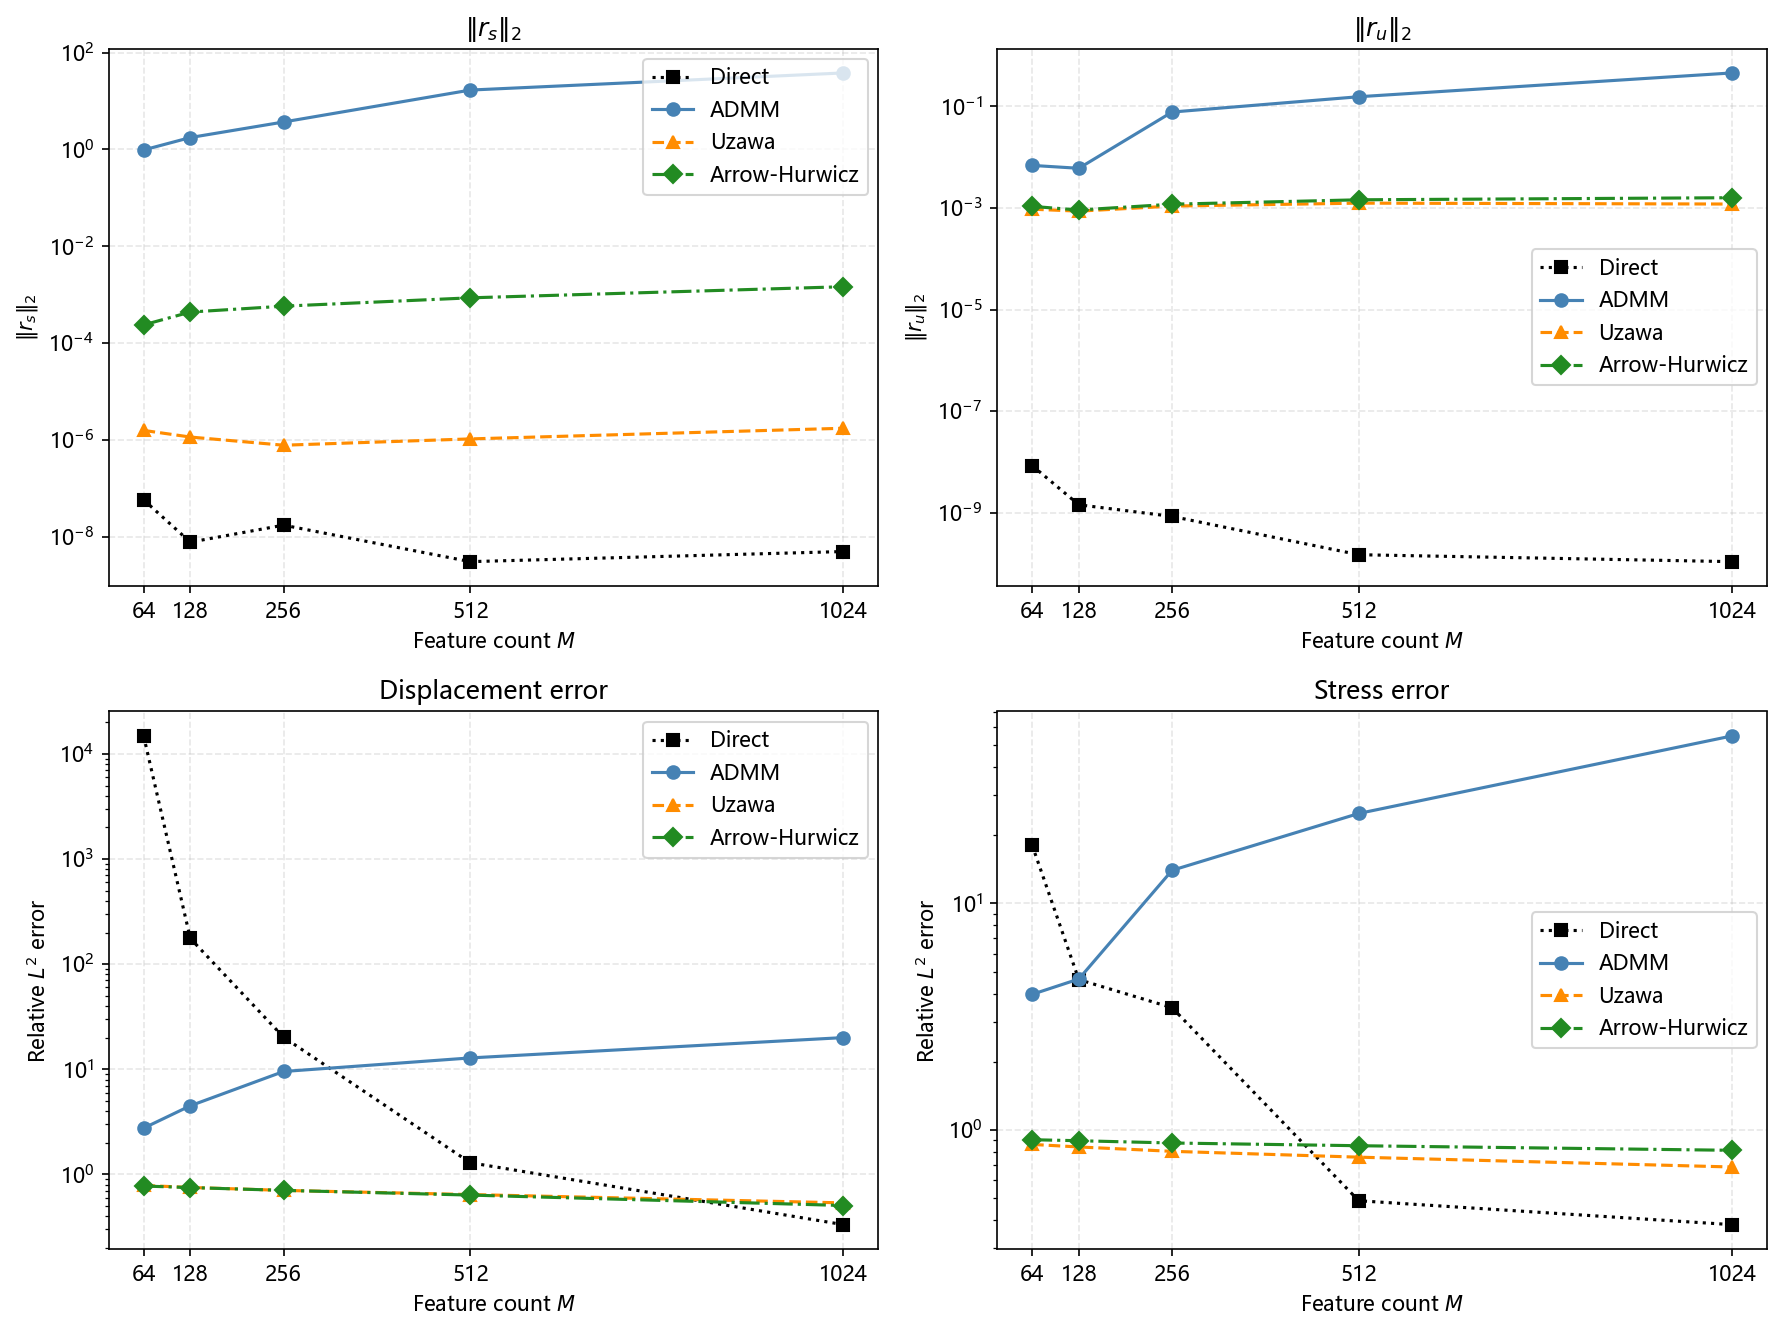
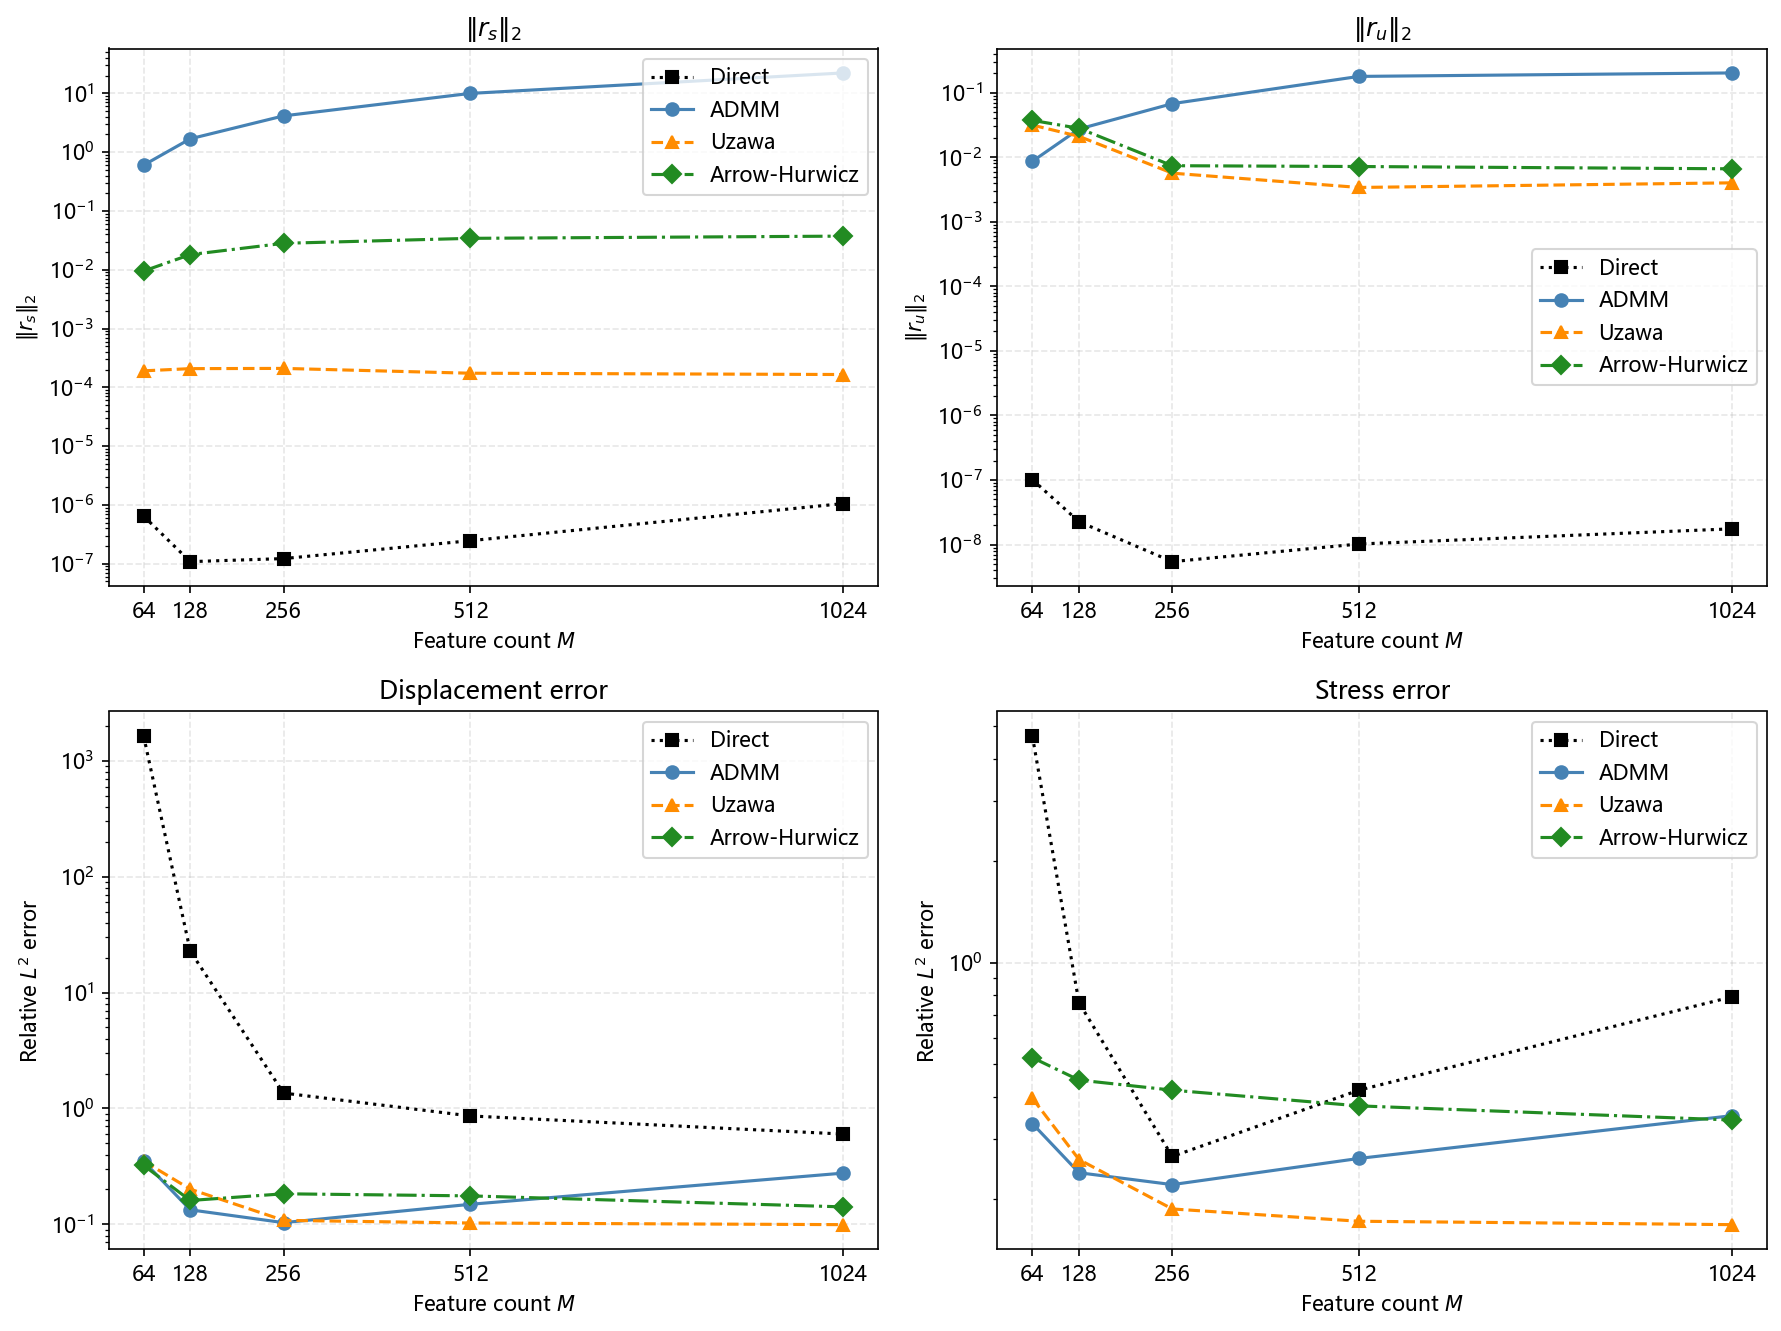
docs: add the envelope function zeta to the numerical displacement for boundary conditions

diff --git a/experiments/saddle-point/saddle_point.py b/experiments/saddle-point/saddle_point.py
@@ -193,7 +193,7 @@ def assemble_system(xi: torch.Tensor, grad_xi: torch.Tensor,
     """Assemble A, B, F matrices for the saddle-point system.
 
     Displacement features are multiplied by ζ(x) to enforce homogeneous
-    Dirichlet BCs: ψ_m(x) = ζ(x) ξ_m(x), so u_h = Σ u_{m,i} ψ_m e_i = 0 on ∂Ω.
+    Dirichlet BCs: ξ̂_m(x) = ζ(x) ξ_m(x), so u_h = Σ u_{m,i} ξ̂_m e_i = 0 on ∂Ω.
 
     Args:
         xi: (Q, M+1) feature values
@@ -210,8 +210,8 @@ def assemble_system(xi: torch.Tensor, grad_xi: torch.Tensor,
     Q = xi.shape[0]
     Mp1 = xi.shape[1]
 
-    # Displacement features: ψ = ζ * ξ
-    psi = zeta.unsqueeze(1) * xi  # (Q, Mp1)
+    # Displacement features: ξ̂ = ζ * ξ
+    xi_hat = zeta.unsqueeze(1) * xi  # (Q, Mp1)
 
     # Gram matrix G = (1/Q) xi^T xi (stress-stress)
     G = (1.0 / Q) * (xi.T @ xi)
@@ -223,11 +223,11 @@ def assemble_system(xi: torch.Tensor, grad_xi: torch.Tensor,
         for beta in range(6):
             A[alpha::6, beta::6] = S[alpha, beta] * G
 
-    # Derivative matrices using displacement features ψ for test:
-    # D_k[n, m] = (1/Q) sum_q ψ_m(x_q) * d_k ξ_n(x_q)
+    # Derivative matrices using displacement features ξ̂ for test:
+    # D_k[n, m] = (1/Q) sum_q ξ̂_m(x_q) * d_k ξ_n(x_q)
     D = []
     for k in range(3):
-        Dk = (1.0 / Q) * (psi.T @ grad_xi[:, :, k])  # [m, n]
+        Dk = (1.0 / Q) * (xi_hat.T @ grad_xi[:, :, k])  # [m, n]
         D.append(Dk.T)  # [n, m]
 
     # B matrix: 6*(M+1) x 3*(M+1)
@@ -244,8 +244,8 @@ def assemble_system(xi: torch.Tensor, grad_xi: torch.Tensor,
     B[5::6, 0::3] = D[2]   # beta=5(13), i=0: D2
     B[5::6, 2::3] = D[0]   # beta=5(13), i=2: D0
 
-    # F vector using displacement features ψ: F[i::3] = (1/Q) ψ^T f[:, i]
-    F_mat = (1.0 / Q) * (psi.T @ f_vals)  # (Mp1, 3)
+    # F vector using displacement features ξ̂: F[i::3] = (1/Q) ξ̂^T f[:, i]
+    F_mat = (1.0 / Q) * (xi_hat.T @ f_vals)  # (Mp1, 3)
     F_vec = torch.zeros(dim_u, dtype=DTYPE, device=device)
     for i in range(3):
         F_vec[i::3] = F_mat[:, i]
@@ -315,17 +315,17 @@ def compute_kkt_residuals(A, B, F, s, u):
     return r_s.norm().item(), r_u.norm().item()
 
 
-def compute_l2_errors(psi_test, s, u, u_exact, sigma_exact, xi_test):
+def compute_l2_errors(xi_hat_test, s, u, u_exact, sigma_exact, xi_test):
     """Evaluate relative L2 errors for displacement and stress on test points.
 
-    Displacement uses ψ = ζ*ξ features; stress uses ξ features.
+    Displacement uses ξ̂ = ζ*ξ features; stress uses ξ features.
     """
-    Q_test = psi_test.shape[0]
+    Q_test = xi_hat_test.shape[0]
 
-    # Reconstruct displacement: u_h[:, i] = psi_test @ u[i::3]
+    # Reconstruct displacement: u_h[:, i] = xi_hat_test @ u[i::3]
     u_h = torch.zeros(Q_test, 3, dtype=DTYPE, device=device)
     for i in range(3):
-        u_h[:, i] = psi_test @ u[i::3]
+        u_h[:, i] = xi_hat_test @ u[i::3]
 
     # Reconstruct stress: sigma_h[:, alpha] = xi_test @ s[alpha::6]
     sigma_h = torch.zeros(Q_test, 6, dtype=DTYPE, device=device)
@@ -348,7 +348,7 @@ def compute_l2_errors(psi_test, s, u, u_exact, sigma_exact, xi_test):
     return rel_u, rel_sig
 
 
-def make_eval_callback(A, B, F, psi_test, xi_test, u_exact, sigma_exact,
+def make_eval_callback(A, B, F, xi_hat_test, xi_test, u_exact, sigma_exact,
                        eval_every=50):
     """Create a callback that records KKT residuals and L2 errors."""
     history = {
@@ -364,7 +364,7 @@ def make_eval_callback(A, B, F, psi_test, xi_test, u_exact, sigma_exact,
         history["r_total"].append(rs + ru)
         if k % eval_every == 0 or k <= 1:
             rel_u, rel_sig = compute_l2_errors(
-                psi_test, s, u, u_exact, sigma_exact, xi_test)
+                xi_hat_test, s, u, u_exact, sigma_exact, xi_test)
             history["rel_u"].append(rel_u)
             history["rel_sigma"].append(rel_sig)
             history["steps"].append(k)
@@ -513,7 +513,7 @@ def run_arrow_hurwicz(A, B, F, K_max=2000, eta_s=1.0, eta_u=1e-2, rho=1e-6,
 # ---------------------------------------------------------------------------
 # Helper: run all algorithms on same system
 # ---------------------------------------------------------------------------
-def run_all_algorithms(A, B, F, psi_test, xi_test, u_exact, sigma_exact,
+def run_all_algorithms(A, B, F, xi_hat_test, xi_test, u_exact, sigma_exact,
                        K_max=2000, eval_every=50, rho=1e-6,
                        eta_admm=0.02, beta_adam=(0.9, 0.98),
                        eta_u_uzawa=None, eta_s_ah=None, eta_u_ah=None):
@@ -528,7 +528,7 @@ def run_all_algorithms(A, B, F, psi_test, xi_test, u_exact, sigma_exact,
     print("  Running Direct solve...")
     s, u, wt = run_direct_solve(A, B, F)
     rs, ru = compute_kkt_residuals(A, B, F, s, u)
-    rel_u, rel_sig = compute_l2_errors(psi_test, s, u, u_exact, sigma_exact, xi_test)
+    rel_u, rel_sig = compute_l2_errors(xi_hat_test, s, u, u_exact, sigma_exact, xi_test)
     history = {
         "r_s": [rs], "r_u": [ru], "r_total": [rs + ru],
         "rel_u": [rel_u], "rel_sigma": [rel_sig], "steps": [0],
@@ -569,7 +569,7 @@ def run_all_algorithms(A, B, F, psi_test, xi_test, u_exact, sigma_exact,
         ("Arrow-Hurwicz", run_arrow_hurwicz,
          dict(K_max=K_max, eta_s=eta_s_ah, eta_u=eta_u_ah, rho=rho)),
     ]:
-        cb, hist = make_eval_callback(A, B, F, psi_test, xi_test,
+        cb, hist = make_eval_callback(A, B, F, xi_hat_test, xi_test,
                                       u_exact, sigma_exact,
                                       eval_every=eval_every)
         print(f"  Running {name}...")
@@ -729,7 +729,7 @@ if __name__ == "__main__":
     ablation_M_list = []
     Q_train = 20000
     Q_test = 10000
-    K_max = 10000
+    K_max = 100000
     rho = 1e-6
     eta_admm = 2e-02
     beta_adam = (0.9, 0.98)
@@ -778,13 +778,13 @@ if __name__ == "__main__":
     x_test = torch.rand(Q_test, 3, dtype=DTYPE, device=device)
     xi_test = eval_features(x_test, a, r, gamma)
     zeta_test = zeta_fn(x_test)
-    psi_test = zeta_test.unsqueeze(1) * xi_test  # displacement features
+    xi_hat_test = zeta_test.unsqueeze(1) * xi_test  # displacement features
     u_exact = eval_exact_displacement(x_test)
     sigma_exact = compute_stress_voigt(x_test, mu, lam)
 
     # --- Run all algorithms (including Direct solve) ---
     print(f"\n=== Main experiment (M={M}, Q=20000) ===")
-    results = run_all_algorithms(A, B, F, psi_test, xi_test, u_exact, sigma_exact,
+    results = run_all_algorithms(A, B, F, xi_hat_test, xi_test, u_exact, sigma_exact,
                                  K_max=K_max, eval_every=50, rho=rho,
                                  eta_admm=eta_admm, beta_adam=beta_adam,
                                  eta_u_uzawa=eta_u_uzawa, eta_s_ah=eta_s_ah, eta_u_ah=eta_u_ah)
@@ -838,11 +838,11 @@ if __name__ == "__main__":
             xi_abl, grad_xi_abl, S, f_train, zeta_train)
 
         xi_test_abl = eval_features(x_test, a_abl, r_abl, gamma)
-        psi_test_abl = zeta_test.unsqueeze(1) * xi_test_abl
+        xi_hat_test_abl = zeta_test.unsqueeze(1) * xi_test_abl
 
         # Run all 4 methods; eval_every=K_max to only record final L2
         abl_results = run_all_algorithms(
-            A_abl, B_abl, F_abl, psi_test_abl, xi_test_abl,
+            A_abl, B_abl, F_abl, xi_hat_test_abl, xi_test_abl,
             u_exact, sigma_exact, K_max=K_max, eval_every=K_max, rho=rho,
             eta_admm=eta_admm, beta_adam=beta_adam,
             eta_u_uzawa=eta_u_uzawa, eta_s_ah=eta_s_ah, eta_u_ah=eta_u_ah,
